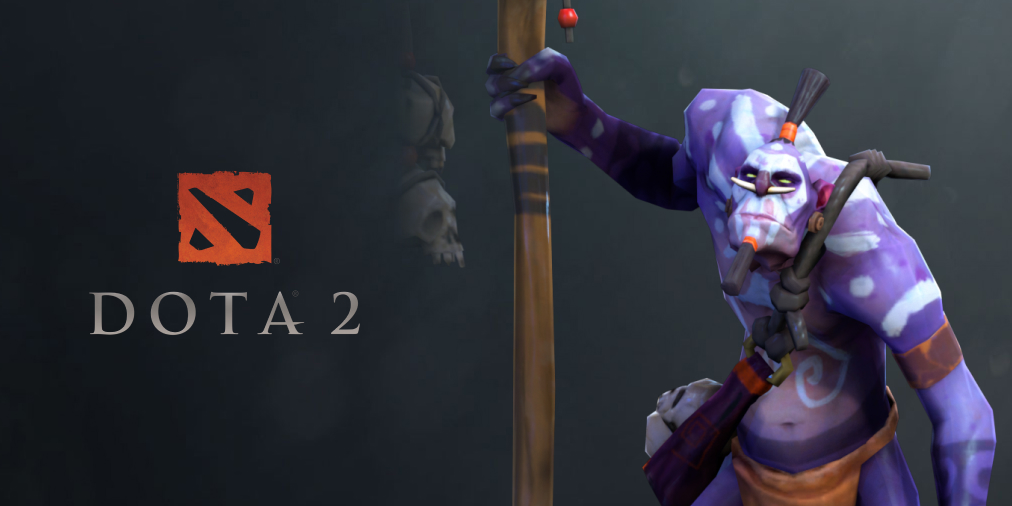
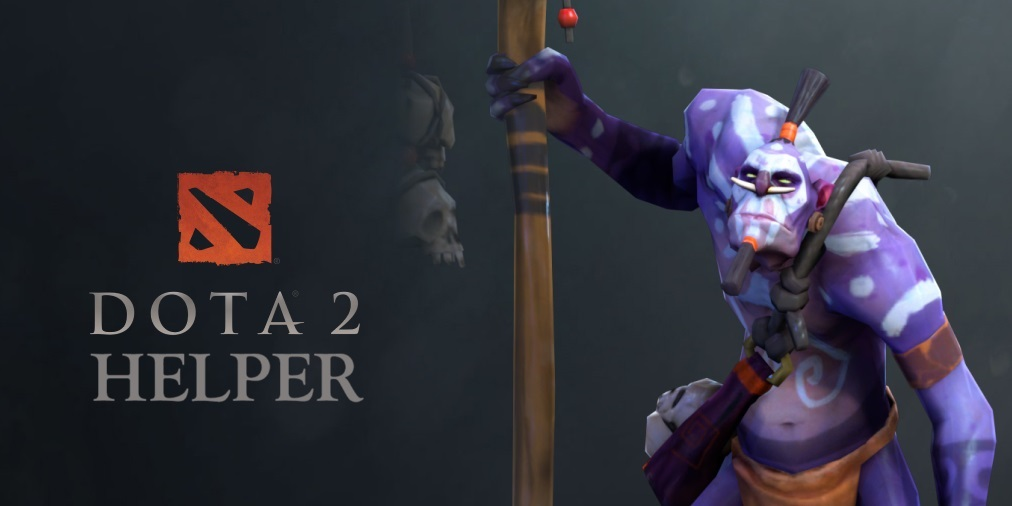
- Added more info on the guide tab - cleanup timers - improved splash screen text with canvas + layers - display version on settings + splash - fixed scrolling on guide tab

Changed region(s): [[0.0919, 0.6818, 0.3676, 0.8004], [0.7658, 0.2372, 0.7964, 0.2668]]

diff --git a/src/Dota2Helper/Features/Timers/TimerStrategy.cs b/src/Dota2Helper/Features/Timers/TimerStrategy.cs
@@ -6,26 +6,29 @@ public class TimerStrategy
 {
     public required string Name { get; set; }
     public TimeMode Mode { get; set; }
-
+    public string ToolTip { get; set; }
 
     public static List<TimerStrategy> Modes =
     [
         new()
         {
             Name = "Auto Switch",
-            Mode = TimeMode.Auto
+            Mode = TimeMode.Auto,
+            ToolTip = "Automatically switches between game and demo timers based on detecting if the game is running."
         },
 
         new()
         {
             Name = "Game Timer",
-            Mode = TimeMode.Auto
+            Mode = TimeMode.Real,
+            ToolTip = "Always use the game timer, even if the game is not running. No fake timer will run."
         },
 
         new()
         {
             Name = "Demo Timer",
-            Mode = TimeMode.Demo
+            Mode = TimeMode.Demo,
+            ToolTip = "Use the demo timer, even if the game is running. No real timer will run. Useful when the game is open but you are not in a match."
         },
     ];
 }

diff --git a/src/Dota2Helper/Features/Settings/SettingsService.cs b/src/Dota2Helper/Features/Settings/SettingsService.cs
@@ -8,7 +8,10 @@ namespace Dota2Helper.Features.Settings;
 
 public class SettingsService
 {
-    readonly JsonSerializerOptions _jsonOptions = new() { WriteIndented = true };
+    readonly JsonSerializerOptions _jsonOptions = new()
+    {
+        WriteIndented = true
+    };
 
     public SettingsService(IOptions<Settings> settings, IOptions<List<DotaTimer>> defaultTimers)
     {
@@ -28,16 +31,10 @@ public class SettingsService
 
     public void SaveSettings()
     {
+        if (Avalonia.Controls.Design.IsDesignMode) return;
+
         var json = JsonSerializer.Serialize(Settings, _jsonOptions);
-
-        if(Avalonia.Controls.Design.IsDesignMode)
-        {
-
-        }
-        else
-        {
-            File.WriteAllText("appsettings.json", json);
-        }
+        File.WriteAllText("appsettings.json", json);
     }
 
     public void UpdateSettings(Settings updatedSettings)

diff --git a/src/Dota2Helper/ViewModels/SplashScreenViewModel.cs b/src/Dota2Helper/ViewModels/SplashScreenViewModel.cs
@@ -1,3 +1,4 @@
+using System;
 using System.Threading;
 using CommunityToolkit.Mvvm.Input;
 
@@ -9,11 +10,15 @@ public class SplashScreenViewModel : ViewModelBase
 
     readonly CancellationTokenSource _cts = new();
 
+    public string Version { get; }
+
     public SplashScreenViewModel()
     {
         ContinueCommand = new RelayCommand(CloseSplash);
+        Version = $"Version: {GitVersionInformation.MajorMinorPatch}";
     }
 
     void CloseSplash() => _cts.Cancel();
     public CancellationToken CancellationToken => _cts.Token;
+
 }

diff --git a/src/Dota2Helper/App.axaml.cs b/src/Dota2Helper/App.axaml.cs
@@ -139,7 +139,7 @@ public partial class App : Application
             dota2ConfigService.TryInstall();
 
             await Task.WhenAny(
-                Task.Delay(5000),
+                Task.Delay(8000),
                 Task.Delay(Timeout.Infinite, ((SplashScreenViewModel)splash.DataContext).CancellationToken)
             );
 

diff --git a/src/Dota2Helper/ViewModels/SettingsViewModel.cs b/src/Dota2Helper/ViewModels/SettingsViewModel.cs
@@ -151,7 +151,7 @@ public class SettingsViewModel : ViewModelBase
         ThemeVariant.Light,
     ];
 
-    public string Version => GitVersionInformation.InformationalVersion;
+    public string Version => $"Version: {GitVersionInformation.MajorMinorPatch}";
 
     public SettingsViewModel(
         ProfileService profileService,

diff --git a/README.md b/README.md
@@ -18,10 +18,11 @@ I do not own a Mac or Linux machine to test the application, so only Windows is 
 ## Features
 
 - An optimised timers view to overlay on top of Dota 2
-- Customisable behaviour for each timer such as audio, show/hide, interval
+- Customisable behaviour for each timer such as audio, show/hide
 - Playing audio notifications for each timer
-- Dark & light modes available
+- Dark & light mode themes (dire and radiant style)
 - Manual reset for dynamic objectives (e.g. Tormentors, Roshan)
+- Profiles for additional customisation, e.g. support heroes, pos, or role. 
 - Fake timers are used when the game is not running for easy configuration
 - When the game is running, the timers will automatically start based on the game time
 - Automatic installation of the game state integration configuration into your Dota 2 folder
